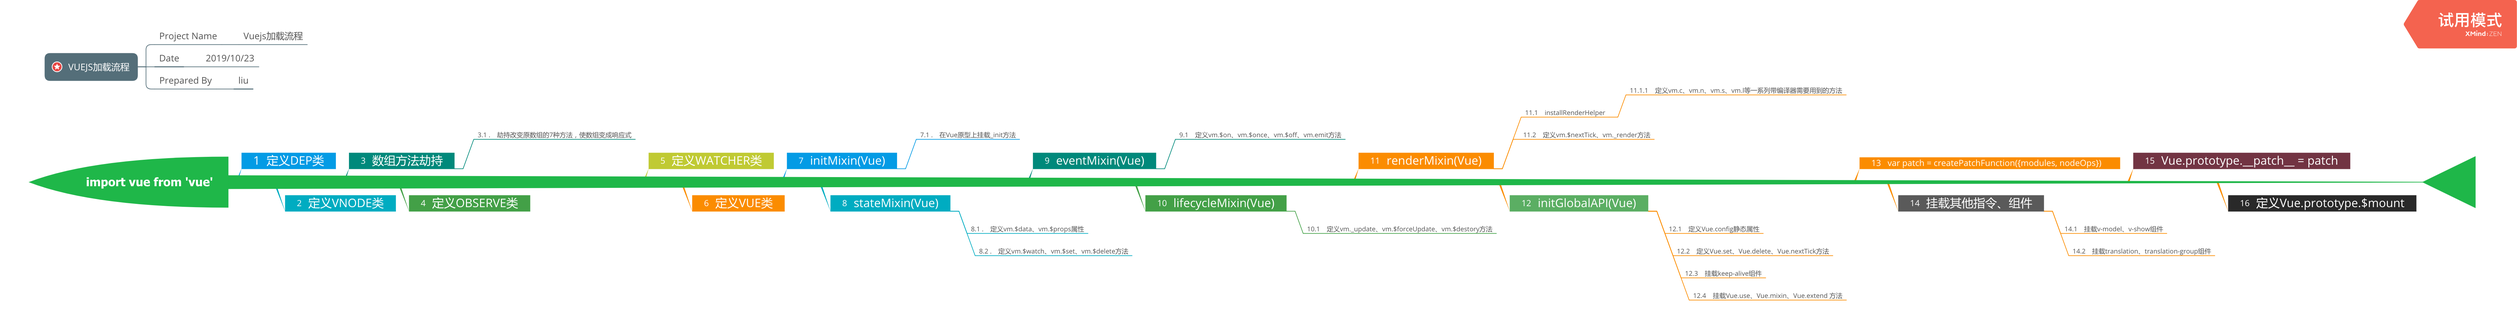
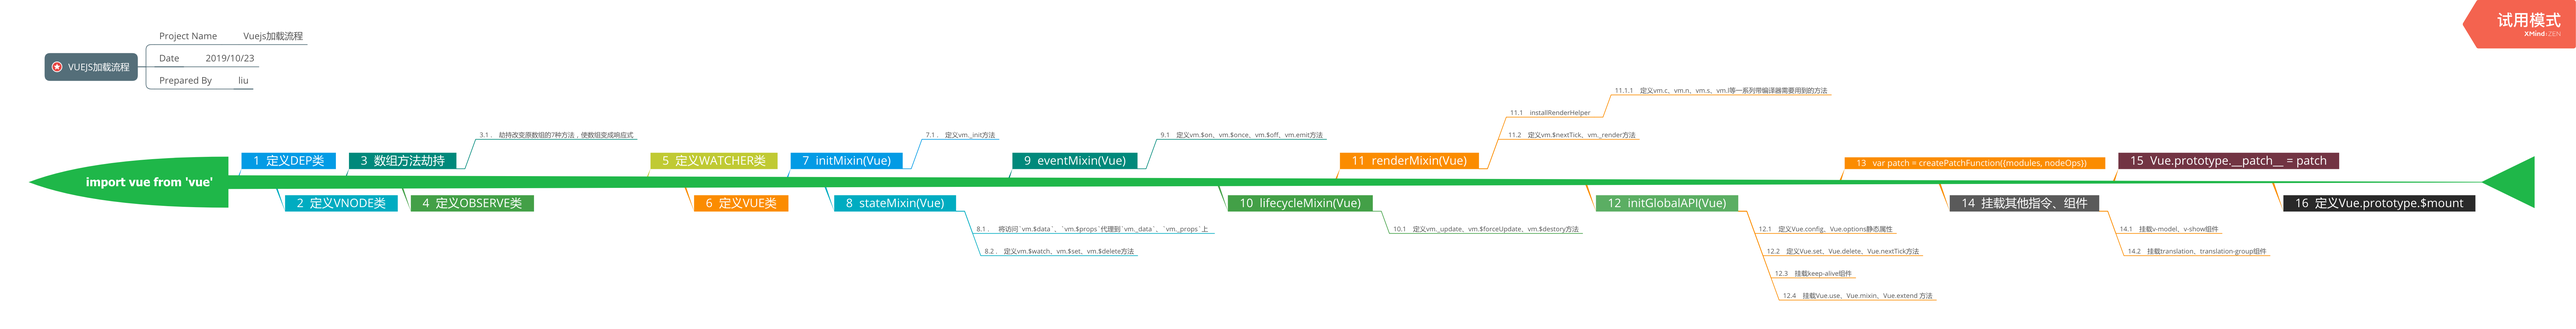
更新VueJs引入文档、图片

diff --git a/doc/vuejs引入过程.md b/doc/vuejs引入过程.md
@@ -1,0 +1,45 @@
+# VueJs引入流程
+
+## 文字描述
+
+执行`import vue from 'vue'`引入VueJs做了如下事情，按先后顺序排序
+
+1. 定义Dep类
+2. 定义Vnode类
+3. 数组方法劫持
+    * 劫持改变原来数组的`push`、`pop`、`shift`、`unshift`、`splice`、`sort`、`reverse`七种发方法，使数组变成响应式
+4. 定义Observer类
+5. 定义Watcher类
+6. 定义Vue类
+7. initMixin(Vue)
+    * 在Vue原型上挂载`_init`方法，用于Vue实例的初始化
+8. stateMixin(Vue)
+    * 将访问`vm.$data`、`vm.$props`代理到`vm._data`、`vm._props`上
+    * 在Vue原型上挂载`$set`、`$delete`两个方法
+    * 在Vue原型上挂载`$watch`方法
+9. eventMixin(Vue)
+    * 在Vue原型上挂载`$on`、`$once`、`$off`、`$emit`四个方法
+10. lifecycleMixin(Vue)
+    * 在Vue原型上挂载`_update`、`$forceUpdate`、`$destroy`三个方法
+11. renderMixin(Vue)
+    * 在Vue原型上挂载`o`、`n`、`l`、`s`、`q`等15个vue编译器需要用到的方法
+    * 在Vue原型上挂载`_render`、`$nextTick`三个方法
+12. initGlobalAPI(Vue)
+    * 定义`Vue.config`、`Vue.options`属性
+    * 定义`Vue.set`、`Vue.delete`、`Vue.nextTick`三个方法
+    * 挂载`keep-alive`组件
+    * 定义`Vue.use`、`Vue.mixin`、`Vue.extend`三个方法
+13. createPatchFunction
+    * `var patch = createPatchFunction({modules, nodeOps})`
+14. 挂载其他指令、组件
+    * 挂载`v-model`、`v-show`组件
+    * 挂载`translation`、`translation-group`组件
+15. 在Vue原型上挂载`__patch__`方法
+    * `Vue.prototype.__patch__ = patch`
+16. 在Vue原型上挂载`$mount`方法
+
+## 流程图
+
+其实是鱼骨图，如下：
+
+![](../static/import.png)
